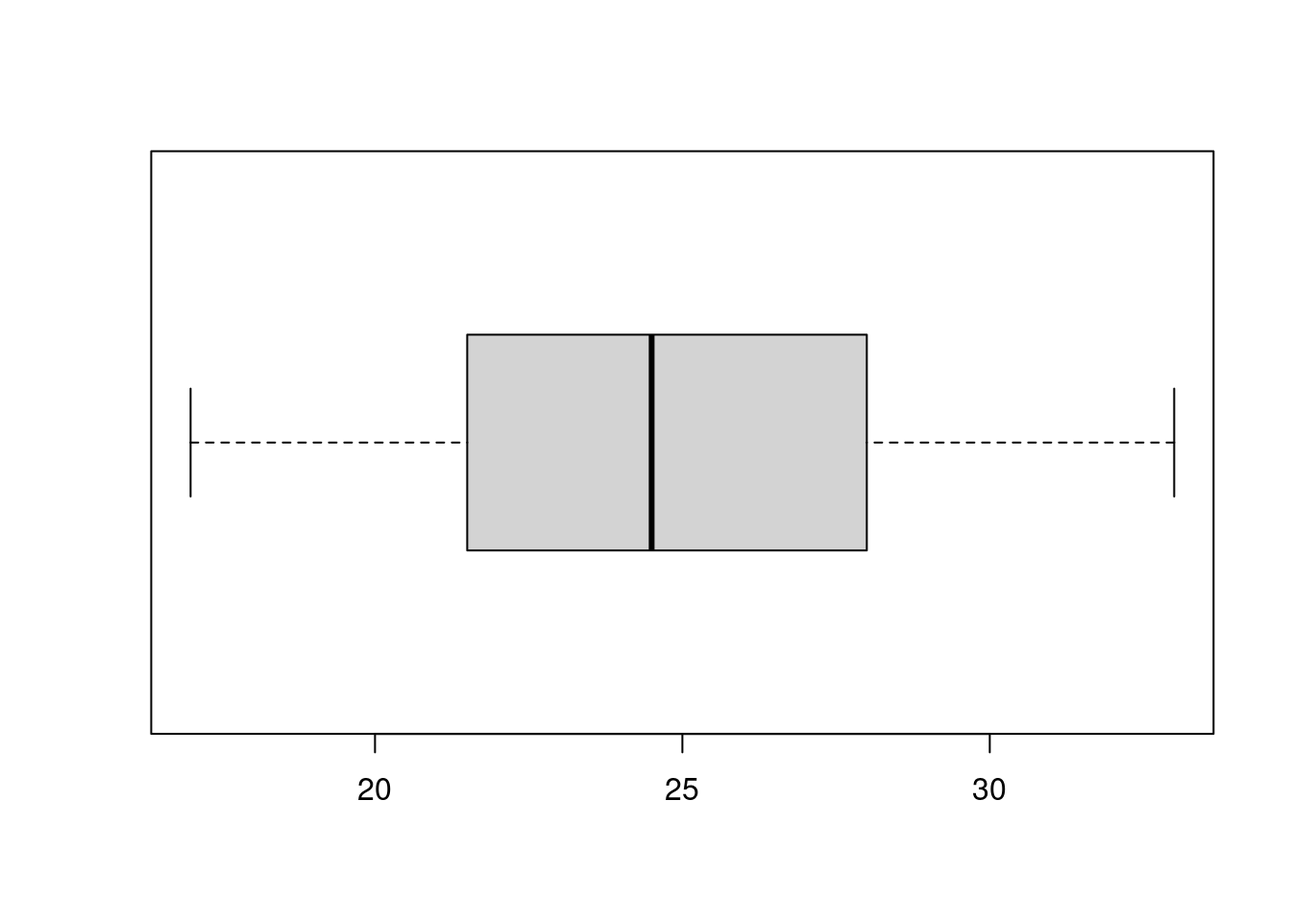
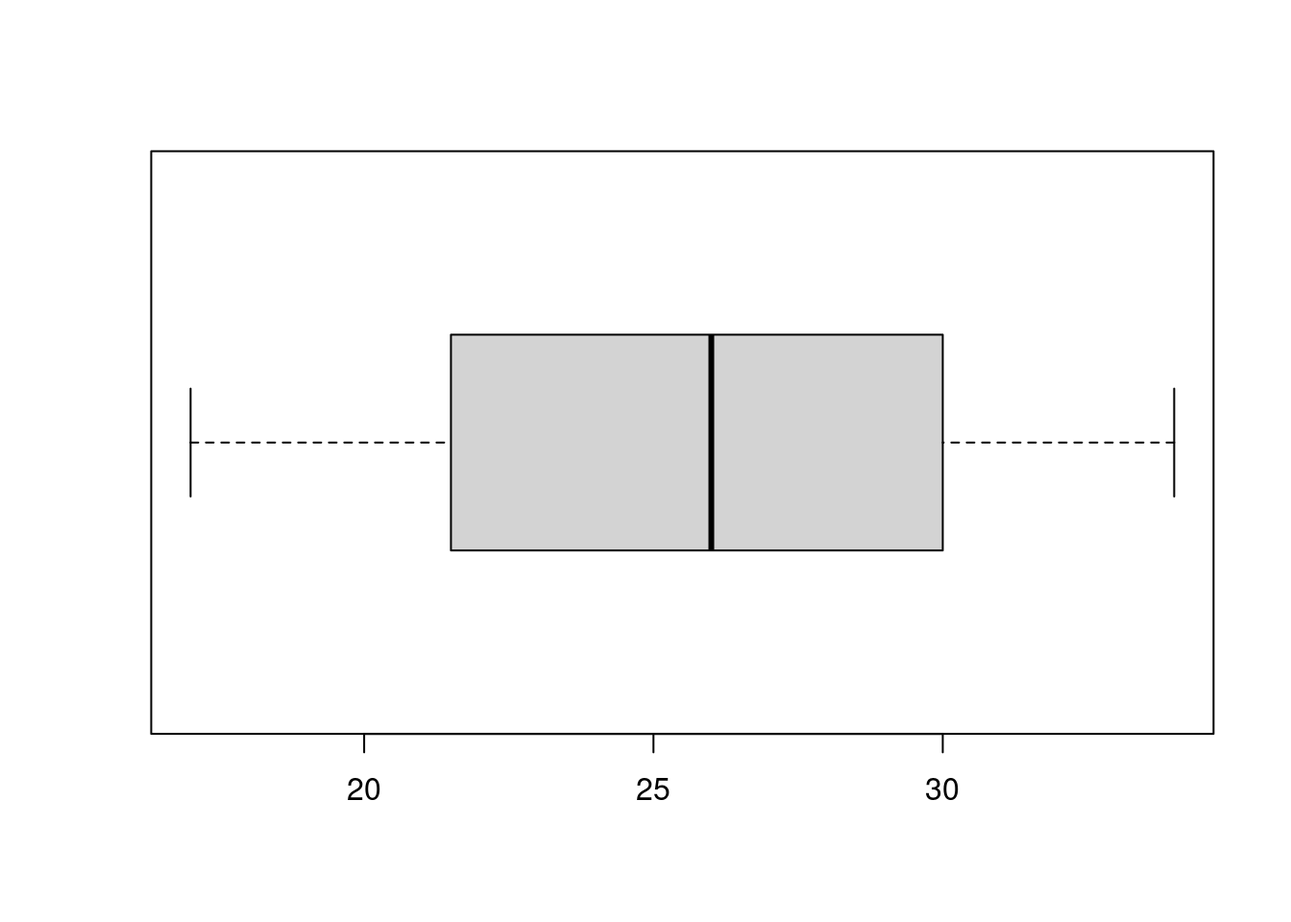
cleaning up

diff --git a/_book/discrete-probability-the-binomial-distribution.html b/_book/discrete-probability-the-binomial-distribution.html
@@ -241,7 +241,15 @@ code span.wa { color: #60a0b0; font-weight: bold; font-style: italic; } /* Warni
 <li class="chapter" data-level="3.9.2" data-path="discrete-probability-the-binomial-distribution.html"><a href="discrete-probability-the-binomial-distribution.html#variance-of-a-binomial-random-variable"><i class="fa fa-check"></i><b>3.9.2</b> Variance of a Binomial Random Variable</a></li>
 </ul></li>
 </ul></li>
-<li class="chapter" data-level="4" data-path="geometric-and-poisson-distributions.html"><a href="geometric-and-poisson-distributions.html"><i class="fa fa-check"></i><b>4</b> Geometric and Poisson Distributions</a></li>
+<li class="chapter" data-level="4" data-path="geometric-and-poisson-distributions.html"><a href="geometric-and-poisson-distributions.html"><i class="fa fa-check"></i><b>4</b> Geometric and Poisson Distributions</a>
+<ul>
+<li class="chapter" data-level="4.1" data-path="geometric-and-poisson-distributions.html"><a href="geometric-and-poisson-distributions.html#geometric-distributions"><i class="fa fa-check"></i><b>4.1</b> Geometric Distributions</a>
+<ul>
+<li class="chapter" data-level="4.1.1" data-path="geometric-and-poisson-distributions.html"><a href="geometric-and-poisson-distributions.html#expected-value-1"><i class="fa fa-check"></i><b>4.1.1</b> Expected Value</a></li>
+<li class="chapter" data-level="4.1.2" data-path="geometric-and-poisson-distributions.html"><a href="geometric-and-poisson-distributions.html#variance"><i class="fa fa-check"></i><b>4.1.2</b> Variance</a></li>
+<li class="chapter" data-level="4.1.3" data-path="geometric-and-poisson-distributions.html"><a href="geometric-and-poisson-distributions.html#poisson-distributions"><i class="fa fa-check"></i><b>4.1.3</b> Poisson Distributions</a></li>
+</ul></li>
+</ul></li>
 </ul>
 
       </nav>
@@ -351,17 +359,17 @@ code span.wa { color: #60a0b0; font-weight: bold; font-style: italic; } /* Warni
 <div class="sourceCode" id="cb1"><pre class="sourceCode r"><code class="sourceCode r"><span id="cb1-1"><a href="discrete-probability-the-binomial-distribution.html#cb1-1" aria-hidden="true" tabindex="-1"></a>x <span class="ot">&lt;-</span> <span class="fu">c</span>(<span class="st">&quot;H&quot;</span>, <span class="st">&quot;T&quot;</span>)</span>
 <span id="cb1-2"><a href="discrete-probability-the-binomial-distribution.html#cb1-2" aria-hidden="true" tabindex="-1"></a>result <span class="ot">&lt;-</span> <span class="fu">sample</span>(x, <span class="dv">200</span>, <span class="at">replace=</span><span class="cn">TRUE</span>)</span>
 <span id="cb1-3"><a href="discrete-probability-the-binomial-distribution.html#cb1-3" aria-hidden="true" tabindex="-1"></a>result</span></code></pre></div>
-<pre><code>##   [1] &quot;H&quot; &quot;H&quot; &quot;H&quot; &quot;H&quot; &quot;H&quot; &quot;T&quot; &quot;H&quot; &quot;T&quot; &quot;T&quot; &quot;H&quot; &quot;T&quot; &quot;H&quot; &quot;T&quot; &quot;T&quot; &quot;H&quot; &quot;H&quot; &quot;H&quot; &quot;H&quot;
-##  [19] &quot;T&quot; &quot;H&quot; &quot;T&quot; &quot;H&quot; &quot;T&quot; &quot;H&quot; &quot;T&quot; &quot;T&quot; &quot;T&quot; &quot;H&quot; &quot;T&quot; &quot;T&quot; &quot;H&quot; &quot;T&quot; &quot;H&quot; &quot;H&quot; &quot;T&quot; &quot;T&quot;
-##  [37] &quot;H&quot; &quot;T&quot; &quot;T&quot; &quot;T&quot; &quot;T&quot; &quot;T&quot; &quot;T&quot; &quot;T&quot; &quot;T&quot; &quot;H&quot; &quot;H&quot; &quot;H&quot; &quot;T&quot; &quot;H&quot; &quot;T&quot; &quot;H&quot; &quot;T&quot; &quot;T&quot;
-##  [55] &quot;T&quot; &quot;T&quot; &quot;T&quot; &quot;H&quot; &quot;H&quot; &quot;H&quot; &quot;T&quot; &quot;H&quot; &quot;H&quot; &quot;T&quot; &quot;T&quot; &quot;H&quot; &quot;H&quot; &quot;T&quot; &quot;T&quot; &quot;T&quot; &quot;T&quot; &quot;T&quot;
-##  [73] &quot;H&quot; &quot;H&quot; &quot;H&quot; &quot;T&quot; &quot;H&quot; &quot;H&quot; &quot;T&quot; &quot;H&quot; &quot;H&quot; &quot;H&quot; &quot;H&quot; &quot;H&quot; &quot;T&quot; &quot;H&quot; &quot;H&quot; &quot;H&quot; &quot;T&quot; &quot;T&quot;
-##  [91] &quot;T&quot; &quot;H&quot; &quot;T&quot; &quot;T&quot; &quot;T&quot; &quot;H&quot; &quot;T&quot; &quot;H&quot; &quot;T&quot; &quot;T&quot; &quot;H&quot; &quot;H&quot; &quot;H&quot; &quot;T&quot; &quot;H&quot; &quot;H&quot; &quot;H&quot; &quot;H&quot;
-## [109] &quot;T&quot; &quot;H&quot; &quot;H&quot; &quot;H&quot; &quot;T&quot; &quot;H&quot; &quot;H&quot; &quot;T&quot; &quot;H&quot; &quot;T&quot; &quot;H&quot; &quot;T&quot; &quot;H&quot; &quot;H&quot; &quot;H&quot; &quot;H&quot; &quot;T&quot; &quot;H&quot;
-## [127] &quot;T&quot; &quot;T&quot; &quot;H&quot; &quot;H&quot; &quot;H&quot; &quot;H&quot; &quot;H&quot; &quot;H&quot; &quot;H&quot; &quot;T&quot; &quot;H&quot; &quot;T&quot; &quot;T&quot; &quot;H&quot; &quot;H&quot; &quot;H&quot; &quot;H&quot; &quot;H&quot;
-## [145] &quot;H&quot; &quot;H&quot; &quot;H&quot; &quot;H&quot; &quot;T&quot; &quot;H&quot; &quot;T&quot; &quot;H&quot; &quot;H&quot; &quot;T&quot; &quot;H&quot; &quot;H&quot; &quot;H&quot; &quot;H&quot; &quot;T&quot; &quot;T&quot; &quot;T&quot; &quot;T&quot;
-## [163] &quot;H&quot; &quot;T&quot; &quot;T&quot; &quot;T&quot; &quot;T&quot; &quot;T&quot; &quot;H&quot; &quot;H&quot; &quot;T&quot; &quot;T&quot; &quot;H&quot; &quot;H&quot; &quot;H&quot; &quot;H&quot; &quot;H&quot; &quot;T&quot; &quot;T&quot; &quot;T&quot;
-## [181] &quot;H&quot; &quot;H&quot; &quot;H&quot; &quot;T&quot; &quot;T&quot; &quot;H&quot; &quot;T&quot; &quot;T&quot; &quot;T&quot; &quot;H&quot; &quot;H&quot; &quot;H&quot; &quot;H&quot; &quot;T&quot; &quot;H&quot; &quot;H&quot; &quot;H&quot; &quot;H&quot;
+<pre><code>##   [1] &quot;H&quot; &quot;H&quot; &quot;T&quot; &quot;H&quot; &quot;H&quot; &quot;T&quot; &quot;H&quot; &quot;T&quot; &quot;H&quot; &quot;T&quot; &quot;T&quot; &quot;H&quot; &quot;H&quot; &quot;H&quot; &quot;T&quot; &quot;H&quot; &quot;T&quot; &quot;H&quot;
+##  [19] &quot;H&quot; &quot;H&quot; &quot;H&quot; &quot;T&quot; &quot;H&quot; &quot;T&quot; &quot;H&quot; &quot;H&quot; &quot;H&quot; &quot;H&quot; &quot;H&quot; &quot;T&quot; &quot;H&quot; &quot;H&quot; &quot;H&quot; &quot;T&quot; &quot;T&quot; &quot;H&quot;
+##  [37] &quot;H&quot; &quot;T&quot; &quot;T&quot; &quot;T&quot; &quot;H&quot; &quot;H&quot; &quot;T&quot; &quot;H&quot; &quot;T&quot; &quot;H&quot; &quot;T&quot; &quot;H&quot; &quot;H&quot; &quot;T&quot; &quot;T&quot; &quot;T&quot; &quot;T&quot; &quot;H&quot;
+##  [55] &quot;T&quot; &quot;T&quot; &quot;H&quot; &quot;T&quot; &quot;T&quot; &quot;H&quot; &quot;T&quot; &quot;T&quot; &quot;H&quot; &quot;H&quot; &quot;H&quot; &quot;H&quot; &quot;H&quot; &quot;H&quot; &quot;T&quot; &quot;T&quot; &quot;T&quot; &quot;T&quot;
+##  [73] &quot;T&quot; &quot;T&quot; &quot;T&quot; &quot;H&quot; &quot;H&quot; &quot;T&quot; &quot;T&quot; &quot;T&quot; &quot;H&quot; &quot;T&quot; &quot;H&quot; &quot;T&quot; &quot;H&quot; &quot;H&quot; &quot;H&quot; &quot;T&quot; &quot;H&quot; &quot;T&quot;
+##  [91] &quot;H&quot; &quot;H&quot; &quot;H&quot; &quot;H&quot; &quot;T&quot; &quot;H&quot; &quot;T&quot; &quot;T&quot; &quot;H&quot; &quot;T&quot; &quot;T&quot; &quot;T&quot; &quot;H&quot; &quot;H&quot; &quot;T&quot; &quot;H&quot; &quot;T&quot; &quot;T&quot;
+## [109] &quot;H&quot; &quot;T&quot; &quot;H&quot; &quot;T&quot; &quot;T&quot; &quot;H&quot; &quot;H&quot; &quot;H&quot; &quot;H&quot; &quot;T&quot; &quot;T&quot; &quot;T&quot; &quot;H&quot; &quot;T&quot; &quot;H&quot; &quot;T&quot; &quot;H&quot; &quot;T&quot;
+## [127] &quot;T&quot; &quot;T&quot; &quot;T&quot; &quot;H&quot; &quot;T&quot; &quot;T&quot; &quot;H&quot; &quot;H&quot; &quot;H&quot; &quot;T&quot; &quot;T&quot; &quot;H&quot; &quot;T&quot; &quot;T&quot; &quot;T&quot; &quot;H&quot; &quot;T&quot; &quot;H&quot;
+## [145] &quot;H&quot; &quot;H&quot; &quot;H&quot; &quot;H&quot; &quot;H&quot; &quot;T&quot; &quot;H&quot; &quot;H&quot; &quot;H&quot; &quot;H&quot; &quot;T&quot; &quot;T&quot; &quot;H&quot; &quot;T&quot; &quot;H&quot; &quot;T&quot; &quot;T&quot; &quot;H&quot;
+## [163] &quot;T&quot; &quot;T&quot; &quot;T&quot; &quot;H&quot; &quot;H&quot; &quot;H&quot; &quot;T&quot; &quot;T&quot; &quot;H&quot; &quot;H&quot; &quot;H&quot; &quot;T&quot; &quot;T&quot; &quot;T&quot; &quot;H&quot; &quot;H&quot; &quot;T&quot; &quot;H&quot;
+## [181] &quot;T&quot; &quot;H&quot; &quot;T&quot; &quot;T&quot; &quot;T&quot; &quot;H&quot; &quot;T&quot; &quot;H&quot; &quot;H&quot; &quot;T&quot; &quot;T&quot; &quot;H&quot; &quot;T&quot; &quot;H&quot; &quot;T&quot; &quot;H&quot; &quot;T&quot; &quot;T&quot;
 ## [199] &quot;T&quot; &quot;H&quot;</code></pre>
 <p>You can also pass the sample command a list of probabilities for each element of x; note that order matters so check it. For a fair coin the default of each outcome being equally likely works. However note that unfair coins are not unheard of - you can purchase them at magic and toy shops.</p>
 <p>A typical human trying to fake coin flips will distribute them too uniformly and will not have as many long sequences of “H” as we expect to see from an actual experiment.</p>
@@ -372,16 +380,16 @@ code span.wa { color: #60a0b0; font-weight: bold; font-style: italic; } /* Warni
 <div class="sourceCode" id="cb3"><pre class="sourceCode r"><code class="sourceCode r"><span id="cb3-1"><a href="discrete-probability-the-binomial-distribution.html#cb3-1" aria-hidden="true" tabindex="-1"></a>x <span class="ot">&lt;-</span> <span class="fu">c</span>(<span class="dv">1</span>, <span class="dv">0</span>)</span>
 <span id="cb3-2"><a href="discrete-probability-the-binomial-distribution.html#cb3-2" aria-hidden="true" tabindex="-1"></a>result <span class="ot">&lt;-</span> <span class="fu">sample</span>(x, <span class="dv">130</span>, <span class="at">replace =</span> <span class="cn">TRUE</span>, <span class="at">prob=</span><span class="fu">c</span>(<span class="fl">0.38</span>, <span class="fl">0.62</span>) )</span>
 <span id="cb3-3"><a href="discrete-probability-the-binomial-distribution.html#cb3-3" aria-hidden="true" tabindex="-1"></a>result</span></code></pre></div>
-<pre><code>##   [1] 1 0 0 0 0 1 1 0 0 0 0 1 0 0 0 0 1 1 1 0 1 0 0 1 1 1 1 0 1 1 0 0 1 0 1 0 1
-##  [38] 1 1 1 0 1 1 0 1 0 1 0 0 1 0 1 0 0 0 1 0 0 0 1 0 0 0 0 0 1 1 0 1 1 1 0 0 0
-##  [75] 0 1 0 0 0 1 1 0 0 0 1 0 1 1 0 1 1 1 0 1 1 1 0 1 0 0 0 0 0 1 0 1 0 0 0 1 0
-## [112] 1 0 0 0 0 1 0 1 1 1 0 1 0 0 1 1 0 0 0</code></pre>
+<pre><code>##   [1] 0 0 1 1 1 0 0 0 0 1 0 1 0 0 1 0 0 1 1 1 1 0 0 0 0 0 1 1 0 0 1 0 0 0 0 0 0
+##  [38] 0 0 1 0 0 0 0 0 0 1 1 1 1 1 0 0 0 0 0 0 0 0 0 1 1 1 0 1 0 1 0 0 0 0 0 0 0
+##  [75] 0 1 1 1 0 0 0 0 1 1 0 1 0 0 0 0 0 0 0 0 1 1 0 1 0 0 0 0 0 1 0 1 1 0 0 0 1
+## [112] 0 1 0 0 1 0 0 0 0 1 0 0 0 0 1 0 0 1 1</code></pre>
 <p>You may notice that rather than using strings for the entries in <em>x</em> I used 1 and 0. The reason is that what we care about is the number of students that are food insecure, this is our random variable of interest and now we can compute its value by just summing up the numbers in <em>result</em> the value of which will be the number of 1s.</p>
 <div class="sourceCode" id="cb5"><pre class="sourceCode r"><code class="sourceCode r"><span id="cb5-1"><a href="discrete-probability-the-binomial-distribution.html#cb5-1" aria-hidden="true" tabindex="-1"></a><span class="fu">sum</span>(result)</span></code></pre></div>
-<pre><code>## [1] 57</code></pre>
+<pre><code>## [1] 43</code></pre>
 <p>Because the <em>sample</em> command uses (pseudo)-random numbers, if we run this again we will get a different result (also note each time I compile this textbook the values change). Do it a few times yourself and see what we get.</p>
 <div class="sourceCode" id="cb7"><pre class="sourceCode r"><code class="sourceCode r"><span id="cb7-1"><a href="discrete-probability-the-binomial-distribution.html#cb7-1" aria-hidden="true" tabindex="-1"></a><span class="fu">sum</span>(<span class="fu">sample</span>(x, <span class="dv">130</span>, <span class="at">replace=</span><span class="cn">TRUE</span>, <span class="at">prob=</span><span class="fu">c</span>(<span class="fl">0.38</span>, <span class="fl">0.62</span>)))</span></code></pre></div>
-<pre><code>## [1] 49</code></pre>
+<pre><code>## [1] 52</code></pre>
 <p>This is a little bit tedious to run a bunch of times and we also should be keeping track of the results. For example, what is the smallest value you have seen so far? Luckily, one of the things computers are absolutely brilliant at is doing the same thing over and over and keeping track of the results. Let me introduce you to one of the two real programming structures we will use in this class: a <em>for loop</em>. A for loop tells the computer to complete the same set of commands multiple times.</p>
 <div class="sourceCode" id="cb9"><pre class="sourceCode r"><code class="sourceCode r"><span id="cb9-1"><a href="discrete-probability-the-binomial-distribution.html#cb9-1" aria-hidden="true" tabindex="-1"></a><span class="co"># We are going to keep track of the results in a variable called trials, so we first initalize this variable as an empty column</span></span>
 <span id="cb9-2"><a href="discrete-probability-the-binomial-distribution.html#cb9-2" aria-hidden="true" tabindex="-1"></a>trials <span class="ot">&lt;-</span> <span class="fu">c</span>()</span>
@@ -395,17 +403,17 @@ code span.wa { color: #60a0b0; font-weight: bold; font-style: italic; } /* Warni
 <span id="cb9-10"><a href="discrete-probability-the-binomial-distribution.html#cb9-10" aria-hidden="true" tabindex="-1"></a>}</span>
 <span id="cb9-11"><a href="discrete-probability-the-binomial-distribution.html#cb9-11" aria-hidden="true" tabindex="-1"></a></span>
 <span id="cb9-12"><a href="discrete-probability-the-binomial-distribution.html#cb9-12" aria-hidden="true" tabindex="-1"></a>trials</span></code></pre></div>
-<pre><code>##   [1] 46 37 52 47 45 55 47 47 55 47 53 46 54 55 55 48 63 47 46 53 57 50 52 58 49
-##  [26] 48 53 50 49 53 49 50 52 54 49 59 53 47 53 43 45 42 48 49 43 44 47 52 48 44
-##  [51] 49 52 53 42 58 48 49 43 47 46 58 48 43 43 47 45 43 49 52 50 43 42 50 43 53
-##  [76] 47 55 53 44 57 53 44 51 48 37 46 42 44 49 46 46 45 53 57 51 45 51 57 49 51</code></pre>
+<pre><code>##   [1] 44 64 37 48 50 53 56 54 59 47 46 48 47 42 58 47 51 60 51 54 52 47 53 50 60
+##  [26] 50 52 47 50 46 48 50 37 47 48 53 56 59 55 47 56 55 50 43 56 55 47 50 58 54
+##  [51] 41 41 44 48 49 53 46 60 55 52 54 55 50 46 44 57 58 49 48 48 56 53 49 49 52
+##  [76] 53 59 40 58 53 49 59 50 52 45 40 51 56 46 32 56 49 46 38 52 56 50 45 61 50</code></pre>
 <p>Let’s use a historgram to look at the result:</p>
 <div class="sourceCode" id="cb11"><pre class="sourceCode r"><code class="sourceCode r"><span id="cb11-1"><a href="discrete-probability-the-binomial-distribution.html#cb11-1" aria-hidden="true" tabindex="-1"></a><span class="co"># The paramter breaks is determining how many bins to use</span></span>
 <span id="cb11-2"><a href="discrete-probability-the-binomial-distribution.html#cb11-2" aria-hidden="true" tabindex="-1"></a><span class="fu">hist</span>(trials, <span class="at">breaks=</span><span class="dv">10</span>)</span></code></pre></div>
 <p><img src="_main_files/figure-html/unnamed-chunk-6-1.png" width="672" /></p>
 <div class="sourceCode" id="cb12"><pre class="sourceCode r"><code class="sourceCode r"><span id="cb12-1"><a href="discrete-probability-the-binomial-distribution.html#cb12-1" aria-hidden="true" tabindex="-1"></a><span class="fu">summary</span>(trials)</span></code></pre></div>
 <pre><code>##    Min. 1st Qu.  Median    Mean 3rd Qu.    Max. 
-##   37.00   46.00   49.00   49.05   53.00   63.00</code></pre>
+##    32.0    47.0    50.0    50.5    55.0    64.0</code></pre>
 <p>So interestingly the minimum value is not very small. What does this tell us about the number of mathematics majors we might see that are food insecure? What would our interpretation be if we found only 10 of the mathematics majors were food insecure?</p>
 <p>Finally you can probably tell me you are not surprised that the mean is close to</p>
 <div class="sourceCode" id="cb14"><pre class="sourceCode r"><code class="sourceCode r"><span id="cb14-1"><a href="discrete-probability-the-binomial-distribution.html#cb14-1" aria-hidden="true" tabindex="-1"></a><span class="fl">0.38</span> <span class="sc">*</span> <span class="dv">130</span></span></code></pre></div>

diff --git a/_book/what-is-statistics.html b/_book/what-is-statistics.html
@@ -241,7 +241,15 @@ code span.wa { color: #60a0b0; font-weight: bold; font-style: italic; } /* Warni
 <li class="chapter" data-level="3.9.2" data-path="discrete-probability-the-binomial-distribution.html"><a href="discrete-probability-the-binomial-distribution.html#variance-of-a-binomial-random-variable"><i class="fa fa-check"></i><b>3.9.2</b> Variance of a Binomial Random Variable</a></li>
 </ul></li>
 </ul></li>
-<li class="chapter" data-level="4" data-path="geometric-and-poisson-distributions.html"><a href="geometric-and-poisson-distributions.html"><i class="fa fa-check"></i><b>4</b> Geometric and Poisson Distributions</a></li>
+<li class="chapter" data-level="4" data-path="geometric-and-poisson-distributions.html"><a href="geometric-and-poisson-distributions.html"><i class="fa fa-check"></i><b>4</b> Geometric and Poisson Distributions</a>
+<ul>
+<li class="chapter" data-level="4.1" data-path="geometric-and-poisson-distributions.html"><a href="geometric-and-poisson-distributions.html#geometric-distributions"><i class="fa fa-check"></i><b>4.1</b> Geometric Distributions</a>
+<ul>
+<li class="chapter" data-level="4.1.1" data-path="geometric-and-poisson-distributions.html"><a href="geometric-and-poisson-distributions.html#expected-value-1"><i class="fa fa-check"></i><b>4.1.1</b> Expected Value</a></li>
+<li class="chapter" data-level="4.1.2" data-path="geometric-and-poisson-distributions.html"><a href="geometric-and-poisson-distributions.html#variance"><i class="fa fa-check"></i><b>4.1.2</b> Variance</a></li>
+<li class="chapter" data-level="4.1.3" data-path="geometric-and-poisson-distributions.html"><a href="geometric-and-poisson-distributions.html#poisson-distributions"><i class="fa fa-check"></i><b>4.1.3</b> Poisson Distributions</a></li>
+</ul></li>
+</ul></li>
 </ul>
 
       </nav>
@@ -327,7 +335,7 @@ While I am collecting this data you can reflect on this funny musing. I grew up 
 <span id="cb2-5"><a href="what-is-statistics.html#cb2-5" aria-hidden="true" tabindex="-1"></a><span class="co"># students &lt;- c() </span></span>
 <span id="cb2-6"><a href="what-is-statistics.html#cb2-6" aria-hidden="true" tabindex="-1"></a></span>
 <span id="cb2-7"><a href="what-is-statistics.html#cb2-7" aria-hidden="true" tabindex="-1"></a>students</span></code></pre></div>
-<pre><code>##  [1] 28 23 26 18 22 18 25 30 27 26 21 24 28 24 21 17 28 22 33 28</code></pre>
+<pre><code>##  [1] 32 27 23 27 21 24 32 17 32 30 25 28 19 20 22 19 29 34 25 30</code></pre>
 <p><em>R Notes</em>: c() stands for column and is one of the most basic data structures in R. Most things we will build will either manipulate columns directly or will use structures built out of columns.</p>
 <p>Comments in commands start with <em>hash symbols</em>.</p>
 <p>Another syntax note: R uses both = and &lt;- for assignment though they have slightly different meanings. They both work as you would expect, however &lt;- has some nice positives in the detailed differences and it is worth getting into the habit of using it.</p>
@@ -337,11 +345,11 @@ While I am collecting this data you can reflect on this funny musing. I grew up 
 <p>To get started we can use <em>summary</em> to get an overview of what our list of student enrollments look like. Review the meaning of each of these.</p>
 <div class="sourceCode" id="cb4"><pre class="sourceCode r"><code class="sourceCode r"><span id="cb4-1"><a href="what-is-statistics.html#cb4-1" aria-hidden="true" tabindex="-1"></a><span class="fu">summary</span>(students)</span></code></pre></div>
 <pre><code>##    Min. 1st Qu.  Median    Mean 3rd Qu.    Max. 
-##   17.00   21.75   24.50   24.45   28.00   33.00</code></pre>
+##   17.00   21.75   26.00   25.80   30.00   34.00</code></pre>
 <p>Mean and Median are <em>measures of center</em>, while the quartiles are <em>measures of spread</em>. One measure of spread missing is the variance or its square root standard deviation:</p>
 <div class="sourceCode" id="cb6"><pre class="sourceCode r"><code class="sourceCode r"><span id="cb6-1"><a href="what-is-statistics.html#cb6-1" aria-hidden="true" tabindex="-1"></a><span class="fu">var</span>(students); <span class="fu">sqrt</span>(<span class="fu">var</span>(students))</span></code></pre></div>
-<pre><code>## [1] 18.05</code></pre>
-<pre><code>## [1] 4.248529</code></pre>
+<pre><code>## [1] 25.74737</code></pre>
+<pre><code>## [1] 5.074186</code></pre>
 <p>The variance is computed by taking the sum of the square differences between the data and the mean and then dividing that by number of items minus one; we will explain why this is what we divide by later in class:
 <span class="math display">\[ S = \frac{1}{n-1} \sum_{j=1}^n (y_j - \bar{y} )^2 \]</span> where <span class="math inline">\(\bar{y}\)</span> is the mean of the sample made up of the <span class="math inline">\(\{ y_1, y_2, \dots, y_n \}\)</span>.</p>
 <p>In the code blocks below I will add some comments about what we are doing:</p>
@@ -351,20 +359,19 @@ While I am collecting this data you can reflect on this funny musing. I grew up 
 <span id="cb9-4"><a href="what-is-statistics.html#cb9-4" aria-hidden="true" tabindex="-1"></a></span>
 <span id="cb9-5"><a href="what-is-statistics.html#cb9-5" aria-hidden="true" tabindex="-1"></a><span class="co"># R can then do the arithmetic and when we combine a list of numbers with a single number and square it, it knows what we mean.</span></span>
 <span id="cb9-6"><a href="what-is-statistics.html#cb9-6" aria-hidden="true" tabindex="-1"></a>(students <span class="sc">-</span> ybar)<span class="sc">^</span><span class="dv">2</span></span></code></pre></div>
-<pre><code>##  [1] 12.6025  2.1025  2.4025 41.6025  6.0025 41.6025  0.3025 30.8025  6.5025
-## [10]  2.4025 11.9025  0.2025 12.6025  0.2025 11.9025 55.5025 12.6025  6.0025
-## [19] 73.1025 12.6025</code></pre>
+<pre><code>##  [1] 38.44  1.44  7.84  1.44 23.04  3.24 38.44 77.44 38.44 17.64  0.64  4.84
+## [13] 46.24 33.64 14.44 46.24 10.24 67.24  0.64 17.64</code></pre>
 <div class="sourceCode" id="cb11"><pre class="sourceCode r"><code class="sourceCode r"><span id="cb11-1"><a href="what-is-statistics.html#cb11-1" aria-hidden="true" tabindex="-1"></a><span class="co"># Then as we said, we sum over all of these and then divide by the number of them</span></span>
 <span id="cb11-2"><a href="what-is-statistics.html#cb11-2" aria-hidden="true" tabindex="-1"></a><span class="co"># minus 1</span></span>
 <span id="cb11-3"><a href="what-is-statistics.html#cb11-3" aria-hidden="true" tabindex="-1"></a></span>
 <span id="cb11-4"><a href="what-is-statistics.html#cb11-4" aria-hidden="true" tabindex="-1"></a><span class="fu">sum</span>( (students <span class="sc">-</span> ybar)<span class="sc">^</span><span class="dv">2</span> ) <span class="sc">/</span> ( <span class="fu">length</span>(students) <span class="sc">-</span> <span class="dv">1</span> )</span></code></pre></div>
-<pre><code>## [1] 18.05</code></pre>
+<pre><code>## [1] 25.74737</code></pre>
 <p>Note why we compute variance in this way. We are trying to understand how far the data moves from the mean <span class="math inline">\(\bar{y}\)</span>. However we can’t just sum over the differences as that will just add up to zero:</p>
 <div class="sourceCode" id="cb13"><pre class="sourceCode r"><code class="sourceCode r"><span id="cb13-1"><a href="what-is-statistics.html#cb13-1" aria-hidden="true" tabindex="-1"></a><span class="fu">sum</span>(students <span class="sc">-</span> ybar )</span></code></pre></div>
-<pre><code>## [1] 1.421085e-14</code></pre>
+<pre><code>## [1] -1.421085e-14</code></pre>
 <p>We have choices though, we could sum over the absolute value and indeed that does give us a notion of spread. Here for example is the corresponding average for absolute deviation:</p>
 <div class="sourceCode" id="cb15"><pre class="sourceCode r"><code class="sourceCode r"><span id="cb15-1"><a href="what-is-statistics.html#cb15-1" aria-hidden="true" tabindex="-1"></a><span class="fu">sum</span>( <span class="fu">abs</span>(students <span class="sc">-</span> ybar)) <span class="sc">/</span> (<span class="fu">length</span>(students) <span class="sc">-</span> <span class="dv">1</span> )</span></code></pre></div>
-<pre><code>## [1] 3.631579</code></pre>
+<pre><code>## [1] 4.526316</code></pre>
 <p>However the advantage of summing over the squares is that it brings in tools from Calculus that work with quadratic expressions but not with absolute value expressions. We then intend to take an average. For reasons we will justify later, it turns out the correct average to do is to divide by the size of our sample minus 1: <span class="math inline">\(n-1\)</span> is called the degrees of freedom (roughly computing <span class="math inline">\(\bar{y}\)</span> from the sample has used up one degree of freedom).</p>
 <p>Note the units on these two statistics: the variance is the average of the sum of the squares (by the number of degrees of freedom) so its units are the square of the units of our sample data (<em>students squared</em> in this case); and then the standard deviation is the square root of the variance and so has units of the original data (<em>students</em> in this case).</p>
 </div>

diff --git a/_book/index.html b/_book/index.html
@@ -241,7 +241,15 @@ code span.wa { color: #60a0b0; font-weight: bold; font-style: italic; } /* Warni
 <li class="chapter" data-level="3.9.2" data-path="discrete-probability-the-binomial-distribution.html"><a href="discrete-probability-the-binomial-distribution.html#variance-of-a-binomial-random-variable"><i class="fa fa-check"></i><b>3.9.2</b> Variance of a Binomial Random Variable</a></li>
 </ul></li>
 </ul></li>
-<li class="chapter" data-level="4" data-path="geometric-and-poisson-distributions.html"><a href="geometric-and-poisson-distributions.html"><i class="fa fa-check"></i><b>4</b> Geometric and Poisson Distributions</a></li>
+<li class="chapter" data-level="4" data-path="geometric-and-poisson-distributions.html"><a href="geometric-and-poisson-distributions.html"><i class="fa fa-check"></i><b>4</b> Geometric and Poisson Distributions</a>
+<ul>
+<li class="chapter" data-level="4.1" data-path="geometric-and-poisson-distributions.html"><a href="geometric-and-poisson-distributions.html#geometric-distributions"><i class="fa fa-check"></i><b>4.1</b> Geometric Distributions</a>
+<ul>
+<li class="chapter" data-level="4.1.1" data-path="geometric-and-poisson-distributions.html"><a href="geometric-and-poisson-distributions.html#expected-value-1"><i class="fa fa-check"></i><b>4.1.1</b> Expected Value</a></li>
+<li class="chapter" data-level="4.1.2" data-path="geometric-and-poisson-distributions.html"><a href="geometric-and-poisson-distributions.html#variance"><i class="fa fa-check"></i><b>4.1.2</b> Variance</a></li>
+<li class="chapter" data-level="4.1.3" data-path="geometric-and-poisson-distributions.html"><a href="geometric-and-poisson-distributions.html#poisson-distributions"><i class="fa fa-check"></i><b>4.1.3</b> Poisson Distributions</a></li>
+</ul></li>
+</ul></li>
 </ul>
 
       </nav>

diff --git a/_book/geometric-and-poisson-distributions.html b/_book/geometric-and-poisson-distributions.html
@@ -247,6 +247,7 @@ code span.wa { color: #60a0b0; font-weight: bold; font-style: italic; } /* Warni
 <ul>
 <li class="chapter" data-level="4.1.1" data-path="geometric-and-poisson-distributions.html"><a href="geometric-and-poisson-distributions.html#expected-value-1"><i class="fa fa-check"></i><b>4.1.1</b> Expected Value</a></li>
 <li class="chapter" data-level="4.1.2" data-path="geometric-and-poisson-distributions.html"><a href="geometric-and-poisson-distributions.html#variance"><i class="fa fa-check"></i><b>4.1.2</b> Variance</a></li>
+<li class="chapter" data-level="4.1.3" data-path="geometric-and-poisson-distributions.html"><a href="geometric-and-poisson-distributions.html#poisson-distributions"><i class="fa fa-check"></i><b>4.1.3</b> Poisson Distributions</a></li>
 </ul></li>
 </ul></li>
 </ul>
@@ -343,8 +344,11 @@ code span.wa { color: #60a0b0; font-weight: bold; font-style: italic; } /* Warni
 <p><span class="math display">\[ E(Y(Y+1)) = \frac{2}{p^2} \]</span></p>
 <p>Putting it all together:</p>
 <p><span class="math display">\[ V(Y) = \frac{2}{p^2} - \frac{1}{p} - \frac{1}{p^2} = \frac{1-p}{p^2} \]</span></p>
-
 </div>
+</div>
+<div id="poisson-distributions" class="section level3" number="4.1.3">
+<h3><span class="header-section-number">4.1.3</span> Poisson Distributions</h3>
+
 </div>
 </div>
 </div>
